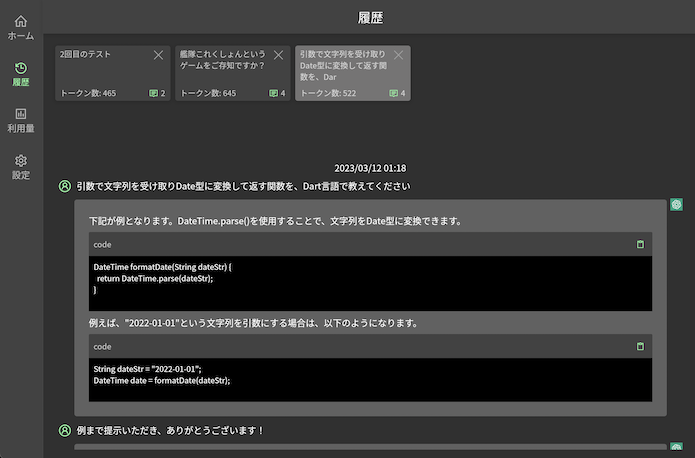
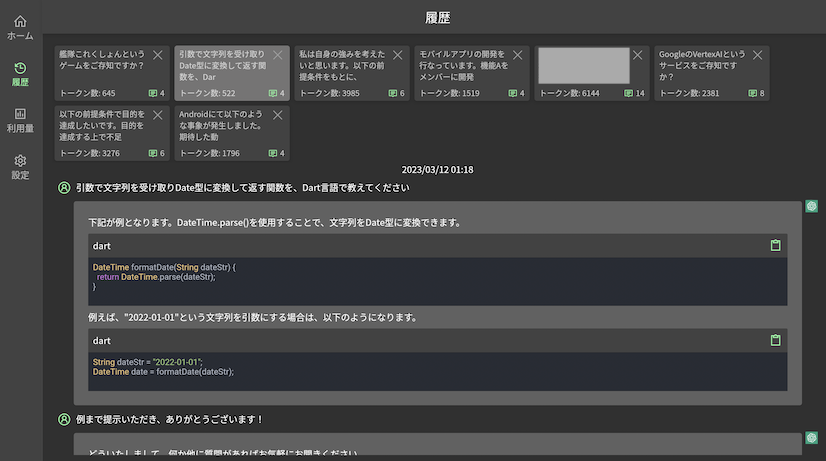
feat: アシスタントのMarkDownでコードのシンタックスハイライトを実装

diff --git a/lib/ui/widgets/assistant_chat_row_widget.dart b/lib/ui/widgets/assistant_chat_row_widget.dart
@@ -1,6 +1,8 @@
 import 'package:assistant_me/model/talk.dart';
 import 'package:flutter/material.dart';
 import 'package:flutter/services.dart';
+import 'package:flutter_highlighter/flutter_highlighter.dart';
+import 'package:flutter_highlighter/themes/atom-one-dark.dart';
 import 'package:flutter_markdown/flutter_markdown.dart';
 import 'package:line_icons/line_icon.dart';
 import 'package:line_icons/line_icons.dart';
@@ -51,53 +53,33 @@ class AssistantChatRowWidget extends StatelessWidget {
         data: talk.message,
         shrinkWrap: true,
         builders: {
-          'pre': _CustomPreBuilder(),
+          'code': _CodeElementBuilder(),
         },
       );
     }
   }
 }
 
-class _CustomPreBuilder extends MarkdownElementBuilder {
+class _CodeElementBuilder extends MarkdownElementBuilder {
   @override
-  Widget? visitText(md.Text text, TextStyle? preferredStyle) {
-    return _PreWidget(text.text);
-  }
-}
+  Widget? visitElementAfter(md.Element element, TextStyle? preferredStyle) {
+    String? codeClass = element.attributes['class'];
+    var lang = (codeClass != null) ? codeClass.substring(9) : 'ー';
 
-class _PreWidget extends StatelessWidget {
-  const _PreWidget(this.text);
-
-  final String text;
-
-  @override
-  Widget build(BuildContext context) {
     return Column(
       children: [
-        _PreHeaderWidget(text),
-        Container(
-          width: double.infinity,
-          decoration: const BoxDecoration(
-            color: Colors.black,
-          ),
-          child: Padding(
-            padding: const EdgeInsets.all(8),
-            child: Text(
-              text,
-              // ここ本当はシンタックスハイライトにしたい・・
-              style: Theme.of(context).textTheme.bodySmall?.copyWith(color: Colors.white),
-            ),
-          ),
-        ),
+        _HeaderWidget(language: lang, textContents: element.textContent),
+        _ContentsWidget(language: lang, textContents: element.textContent),
       ],
     );
   }
 }
 
-class _PreHeaderWidget extends StatelessWidget {
-  const _PreHeaderWidget(this.text);
+class _HeaderWidget extends StatelessWidget {
+  const _HeaderWidget({required this.language, required this.textContents});
 
-  final String text;
+  final String language;
+  final String textContents;
 
   @override
   Widget build(BuildContext context) {
@@ -106,17 +88,40 @@ class _PreHeaderWidget extends StatelessWidget {
       children: [
         Padding(
           padding: const EdgeInsets.only(left: 8),
-          child: Text('code', style: Theme.of(context).textTheme.bodySmall),
+          child: Text(language),
         ),
         IconButton(
           onPressed: () {
-            final t = ClipboardData(text: text);
+            final t = ClipboardData(text: textContents);
             Clipboard.setData(t);
           },
           tooltip: 'クリップボードにコピーします',
-          icon: LineIcon(LineIcons.clipboard, size: 16),
+          icon: LineIcon(LineIcons.clipboard),
         ),
       ],
+    );
+  }
+}
+
+class _ContentsWidget extends StatelessWidget {
+  const _ContentsWidget({required this.language, required this.textContents});
+
+  final String language;
+  final String textContents;
+
+  @override
+  Widget build(BuildContext context) {
+    return Container(
+      width: double.infinity,
+      decoration: const BoxDecoration(
+        color: Colors.black,
+      ),
+      child: HighlightView(
+        textContents,
+        language: language,
+        padding: const EdgeInsets.all(8),
+        theme: atomOneDarkTheme,
+      ),
     );
   }
 }

diff --git a/lib/ui/home/home_page.dart b/lib/ui/home/home_page.dart
@@ -111,7 +111,7 @@ class _ViewNewThreadButton extends ConsumerWidget {
         },
         child: const Padding(
           padding: EdgeInsets.symmetric(horizontal: 8, vertical: 4),
-          child: Text('この会話を終了し新しく会話を始める'),
+          child: Text('新しく会話を始める'),
         ),
       ),
     );

diff --git a/lib/data/remote/entities/gpt_request.dart b/lib/data/remote/entities/gpt_request.dart
@@ -22,7 +22,6 @@ class GptRequest {
         'Content-type': 'application/json',
       };
 
-  // TODO ここでmaxTokenを受け取って過去の会話を削る
   String body() {
     final historyMessages = [];
     for (var history in histories) {

diff --git a/README.md b/README.md
@@ -17,7 +17,6 @@ firebase deploy
 ```
 
 # スクショ
-<img src="./images/01_home.png" width=300>
 <img src="./images/02_history.png" width=300>
 <img src="./images/03_graph.png" width=300>
 
@@ -25,12 +24,11 @@ firebase deploy
 ## 優先度高
 1. 履歴の文字列検索機能
 2. 質問用のテンプレートをいくつか用意したい
+
 ## 優先度低
 1. 履歴のタイトル編集（現在は最初の会話の先頭30文字）
 2. 履歴でも会話を再開できるようにする
 3. temperatureやpresence_penaltyなどのパラメータを設定できるようにする
    1. →デフォルトでも十分そうなので実装しても使わなさそう
-4. アシスタントのMarkDownでコードのシンタックスハイライトを実装する
-   1. →対応したいが難易度高い
-5. Stream対応してみたい
+4. Stream対応してみたい
    1. →今のところあまり不便ではないがやってみたい
